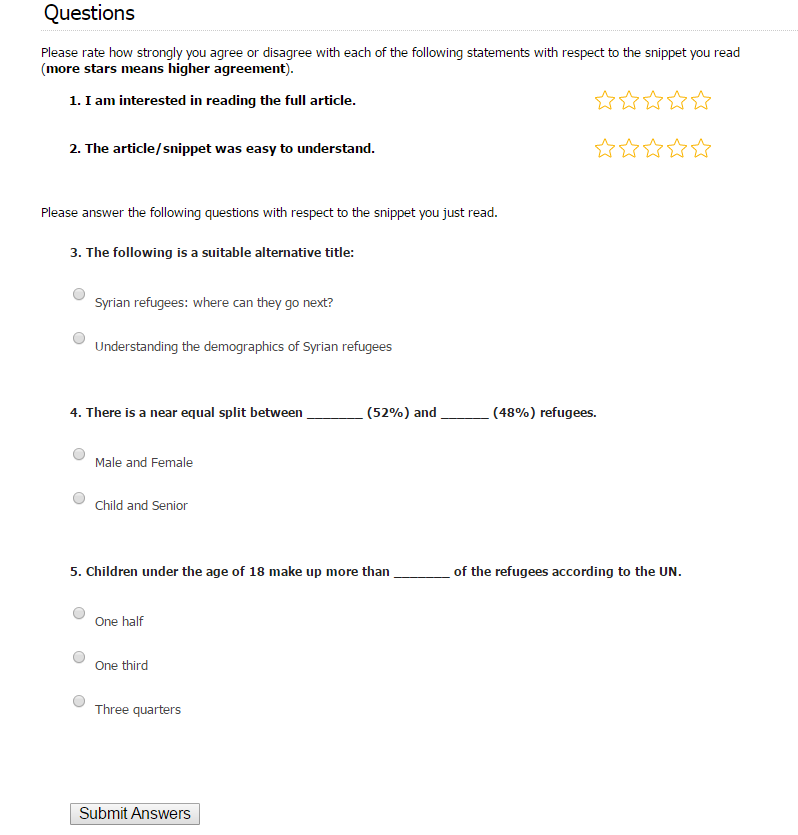
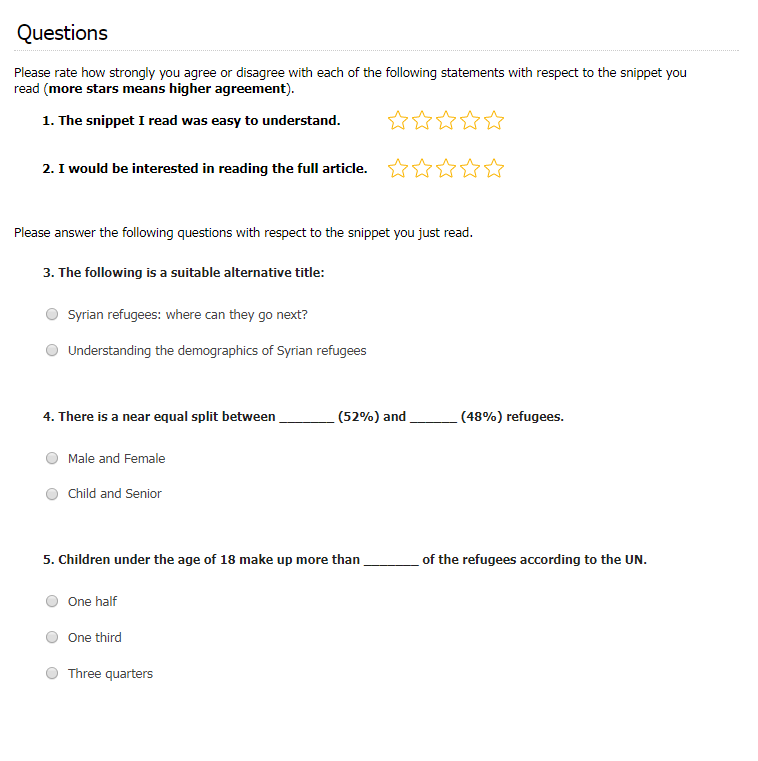
MMD study flow changes and tweaks, also DB purge

diff --git a/templates/prestudy.html b/templates/prestudy.html
@@ -3,18 +3,14 @@
 <html>
 
 <head>
-<link rel="stylesheet" href="static/css/view.css">
-	<title>PreStudy</title></head>
+<!-- <link rel="stylesheet" href="static/css/view.css"> -->
+	<title>PreStudy Questionnaire</title></head>
 <body>
-<h1>Please input a new user ID:</h1>
-<!--<p>userid: {{userid}}<p>-->
-<form method="post" action="/prestudy">
-User ID:
-<input type="text" name="userID">
-<br><br>
-<p>Please answer each of the following questions.</p>
-<br>
-	Age:
+	<form method="post">
+		<br><br>
+		<p>Please answer each of the following questions.</p>
+		<br>
+		Age:
   	<input type="text" name="age">
   	<br><br>
 
@@ -30,16 +26,7 @@ User ID:
   	<input type="text" name="field">
   	<br><br>
 
-  	How often do you look at simple Bar Charts, like the one below:
-  	<br>
-  	<input type="radio" name="simple_bar" value="never"> Never<br>
-  	<input type="radio" name="simple_bar" value="rarely"> Rarely (several times a year)<br>
-  	<input type="radio" name="simple_bar" value="occasionally"> Occasionally (several times a month)<br>
-  	<input type="radio" name="simple_bar" value="frequently"> Frequently (several times a week)<br>
-  	<input type="radio" name="simple_bar" value="very_frequently"> Very frequently (several times a day)<br>
-  	<br>
-
-  	How often do you look at complex Bar Charts, like the one below:
+  	How often do you look at Bar Charts (an example Bar chart is shown below):
   	<br>
   	<input type="radio" name="complex_bar" value="never"> Never<br>
   	<input type="radio" name="complex_bar" value="rarely"> Rarely (several times a year)<br>

diff --git a/static/js/questionnaire.js b/static/js/questionnaire.js
@@ -76,7 +76,7 @@ function buildShopItem(data) {
     var html = '<div class="c-shop-item__img"></div>' +
         '<div class="c-shop-item__details">' +
         // '<h3 class="c-shop-item__title">' + data.title + '</h3>' +
-        '<table><tr><td width="320px"><p id="label_'+questionArray[i].qid+'" class="c-shop-item__questionBody"><b>'+questionArray[i].qid+'. ' + data.questionBody + '</b></p></td>' +
+        '<table><tr><td width="340px"><p id="label_'+questionArray[i].qid+'" class="c-shop-item__questionBody"><b>'+questionArray[i].qid+'. ' + data.questionBody + '</b></p></td>' +
         '<td><ul class="c-rating"></ul></td></tr></table>' +
         '</div>';
 

diff --git a/templates/load_tobii.html b/templates/load_tobii.html
@@ -1,0 +1,24 @@
+
+<!DOCTYPE html>
+<html>
+
+<head>
+<link rel="stylesheet" href="static/css/view.css">
+  <title>Load Tobii</title></head>
+<body>
+<br>
+
+<h1>You can now open Tobii Studio and start the eye tracker.</h1>
+<br><br><br><br><br><br><br><br><br><br><br>
+<form id="form1"  method="post" >
+    <div>
+        <br>
+        Don't forget to hit F11<br>
+        <br>
+        <input type="submit" value="Go to to Pupil Calibration Screen">
+    </div>
+</form>
+
+
+</body>
+</html>

diff --git a/static/js/main.js b/static/js/main.js
@@ -47,7 +47,7 @@ function loadMMD(mmdName){
 
      console.log(mmdName);
 
-     d3.json("static/dataIntervention/"+mmdName+".json", function(data){
+     d3.json("static/data/"+mmdName+".json", function(data){
           $("#theText").html(data.text);
           //console.log('<img src='+data.chart+'');
           $("#visualization").html('<img id="theChart" src="static/'+data.chart+'">' );

diff --git a/templates/index.html b/templates/index.html
@@ -1,6 +1,6 @@
 <!DOCTYPE html>
 <html>
-<title>Welcome to the experiment</title>
+<title>Welcome to the MMD Study 1</title>
 <head>
 	<link rel="stylesheet" href="static/css/view.css">
 	<script type="text/javascript" src="static/js/view.js"></script>
@@ -28,5 +28,5 @@
 	</form>
 </div>
 </div>
-</body> 
+</body>
 </html>

diff --git a/templates/ready.html b/templates/ready.html
@@ -6,7 +6,8 @@
 <link rel="stylesheet" href="static/css/view.css">
   <title>Ready</title></head>
 <body>
-<h1>Click Next when you're ready to begin!</h1>
+  <br><br><br><br><br><br><br>
+<h1>Click Next when you're ready to start the study!</h1>
 
 <form id="form1"  method="post" >
     <div>

diff --git a/templates/done.html b/templates/done.html
@@ -1,0 +1,15 @@
+
+<!DOCTYPE html>
+<html>
+
+<head>
+<link rel="stylesheet" href="static/css/view.css">
+  <title>Done</title></head>
+<body>
+  <br><br><br><br><br><br><br>
+<h1>Thank you so much. It's time for a break!</h1>
+
+
+
+</body>
+</html>

diff --git a/templates/sample_questionnaire.html b/templates/sample_questionnaire.html
@@ -13,7 +13,7 @@
 <form id="form1"  method="post" >
     <div>
         <br>
-        <input type="submit" value="Move to Calibration Screen">
+        <input type="submit" value="Finished with Training">
     </div>
 </form>
 

diff --git a/templates/sample_mmd.html b/templates/sample_mmd.html
@@ -15,7 +15,7 @@
 <form id="form1"  method="post" >
     <div>
         <br>
-        <input type="submit" value="Move to next Example">
+        <input type="submit" value="Go to training questions">
     </div>
 </form>
 

diff --git a/templates/userid.html b/templates/userid.html
@@ -7,7 +7,7 @@
   <title>User</title></head>
 <body>
 <h1>Please input a new user ID:</h1>
-<form method="post" action="/prestudy">
+<form method="post">
 User ID:
 <input type="text" name="userID">
 <br><br>

diff --git a/helloworld_pilot.py b/helloworld_pilot.py
@@ -21,14 +21,17 @@ class Application(tornado.web.Application):
         #connects url with code
         handlers = [
             (r"/", MainHandler),
-            (r"/prestudy", PreStudyHandler),
             (r"/mmd", MMDHandler),
             (r"/questionnaire", QuestionnaireHandler),
             (r"/resume", ResumeHandler),
+            (r"/userID", UserIDHandler),
+            (r"/prestudy", PreStudyHandler),
             (r"/sample_MMD", SampleHandler), (r"/(ExampleMMD.png)", tornado.web.StaticFileHandler, {'path':'./'}),
             (r"/sample_Q", SampleHandler2), (r"/(ExampleQ.png)", tornado.web.StaticFileHandler, {'path':'./'}),
             (r"/calibration", CalibrationHandler), (r"/(blank_cross.jpg)", tornado.web.StaticFileHandler, {'path':'./'}),
-            (r"/ready", ReadyHandler)
+            (r"/tobii", TobiiHandler),
+            (r"/ready", ReadyHandler),
+            (r"/done", DoneHandler)
         ]
         #connects to database
         self.conn = sqlite3.connect('database.db')
@@ -67,11 +70,11 @@ class MainHandler(tornado.web.RequestHandler):
         q1 = self.get_argument('element_1')
         if(int(q1)==1):
             self.application.mmd_order = [3,5,9,11,18,20,27,28,30,60,62,66,72,74,76] #removed MMD 73
-            #random.shuffle(self.application.mmd_order)
+            random.shuffle(self.application.mmd_order)
             self.application.mmd_index = 0
 
             #self.redirect('/mmd')
-            self.redirect('/prestudy')
+            self.redirect('/userID')
         else:
             self.redirect('/resume')
 
@@ -220,7 +223,7 @@ class MMDHandler(tornado.web.RequestHandler):
                 self.render('mmd.html', mmd=str(self.application.cur_mmd))
             self.application.mmd_index+=1
         else:
-            self.redirect('/')
+            self.redirect('/done')
 
     def post(self):
         #refers to database connected to in 'class Application'
@@ -239,7 +242,7 @@ class MMDHandler(tornado.web.RequestHandler):
         self.redirect('/questionnaire')
 
 
-class PreStudyHandler(tornado.web.RequestHandler):
+class UserIDHandler(tornado.web.RequestHandler):
     def get(self):
         #gets time upon entering form
         self.application.start_time = str(datetime.datetime.now().time())
@@ -256,24 +259,21 @@ class PreStudyHandler(tornado.web.RequestHandler):
         user_data = [self.application.cur_user, str(self.application.start_time), str(self.application.mmd_order)]
         self.application.conn.execute('INSERT INTO User_data VALUES (?,?,?)', user_data)
 
-        self.redirect('/sample_MMD')
+        self.redirect('/prestudy')
 
 class PreStudyHandler(tornado.web.RequestHandler):
     def get(self):
         #gets time upon entering form
         self.application.start_time = str(datetime.datetime.now().time())
-        #display contents of prestudy.html
-        self.application.show_question_only = 0
-        self.render("userid.html")
+
+        self.render("prestudy.html")
     def post(self):
         #gets time upon completing form
         self.application.end_time = str(datetime.datetime.now().time())
         #get contents submitted in the form for prestudy
-        self.application.cur_user = self.get_argument('userID')
-
         # store the new userID
-        user_data = [self.application.cur_user, str(self.application.start_time), str(self.application.mmd_order)]
-        self.application.conn.execute('INSERT INTO User_data VALUES (?,?,?)', user_data)
+        #user_data = [self.application.cur_user, str(self.application.start_time), str(self.application.mmd_order)]
+        #self.application.conn.execute('INSERT INTO User_data VALUES (?,?,?)', user_data)
 
         self.redirect('/sample_MMD')
 
@@ -286,6 +286,12 @@ class SampleHandler(tornado.web.RequestHandler):
 class SampleHandler2(tornado.web.RequestHandler):
     def get(self):
         self.render("sample_questionnaire.html")
+    def post(self):
+        self.redirect('/tobii')
+
+class TobiiHandler(tornado.web.RequestHandler):
+    def get(self):
+        self.render("load_tobii.html")
     def post(self):
         self.redirect('/calibration')
 
@@ -300,6 +306,10 @@ class ReadyHandler(tornado.web.RequestHandler):
         self.render("ready.html")
     def post(self):
         self.redirect('/mmd')
+
+class DoneHandler(tornado.web.RequestHandler):
+    def get(self):
+        self.render("done.html")
 
 #main function is first thing to run when application starts
 def main():
